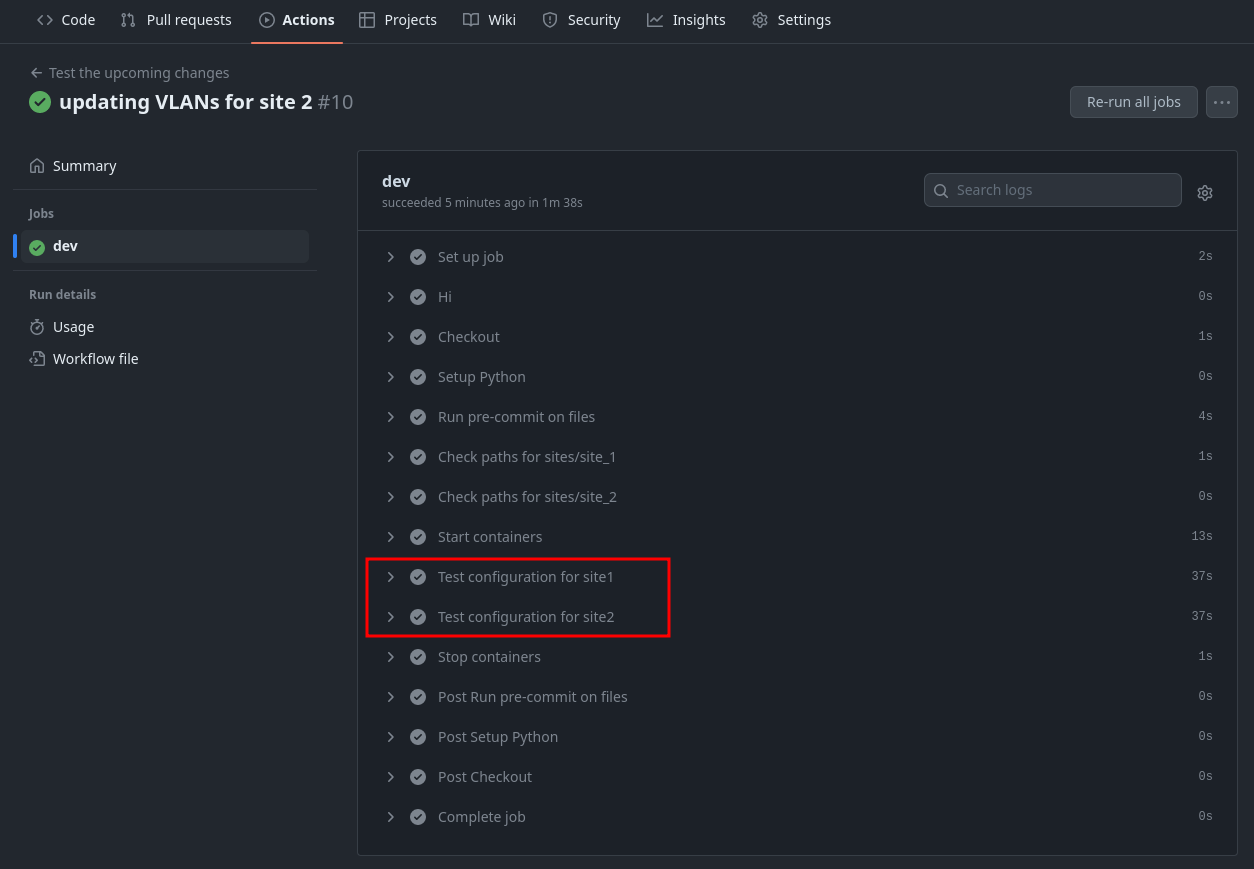
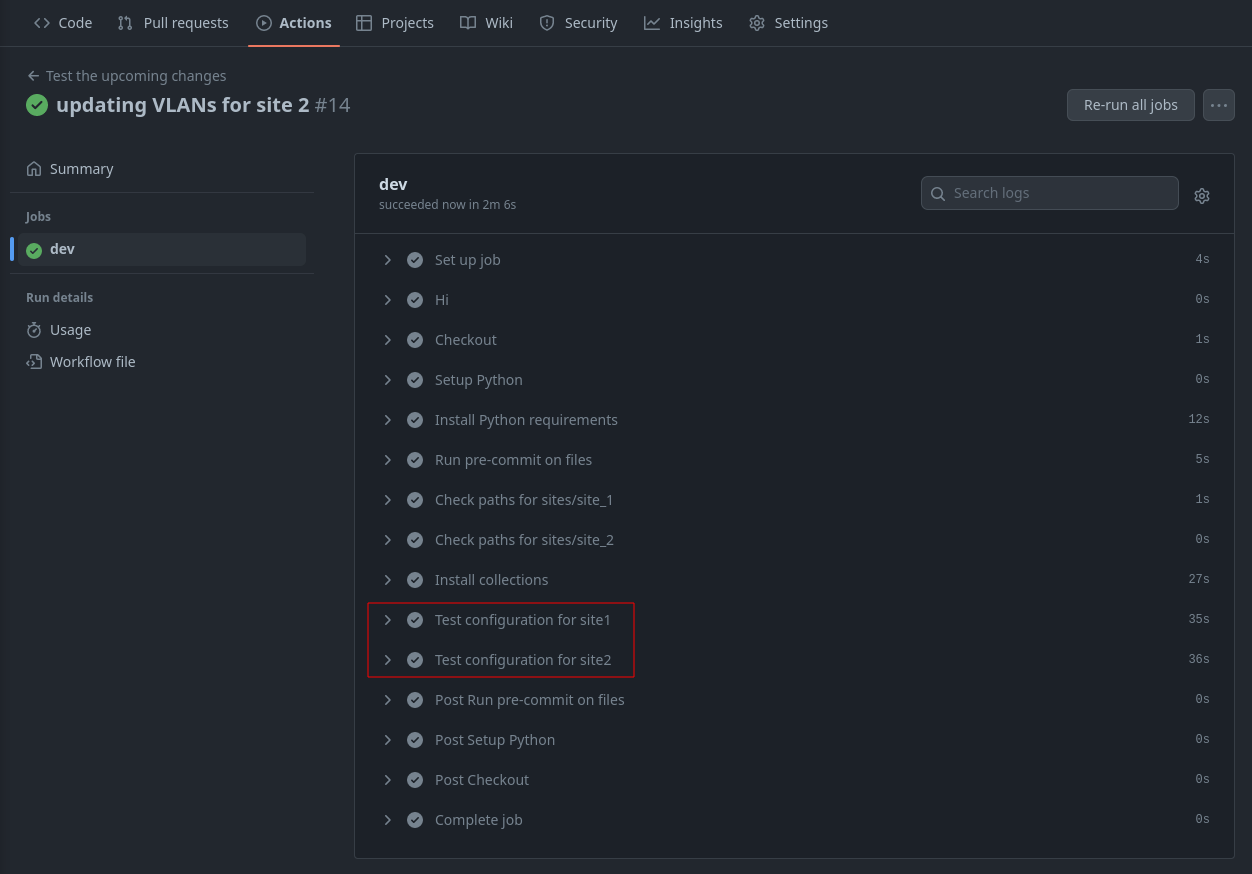
initial work to strip off compose

diff --git a/workshops/cicd-basics.md b/workshops/cicd-basics.md
@@ -253,9 +253,9 @@ repos:
         files: sites/site_1/group_vars/|sites/site_2/group_vars/
 ```
 
-Finally, the setup Python action above the pre-commit step installs Python dependencies in this workflow.
+Finally, the setup Python and install requirements action above the pre-commit step installs Python dependencies in this workflow.
 
-```yaml hl_lines="9-13"
+```yaml hl_lines="9-16"
 ...
     steps:
       - name: Hi
@@ -266,6 +266,9 @@ Finally, the setup Python action above the pre-commit step installs Python depen
 
       - name: Setup Python
         uses: actions/setup-python@v3
+
+      - name: Install Python requirements
+        run: pip3 install requirements.txt
 
       - name: Run pre-commit on files
         uses: pre-commit/action@v3.0.0
@@ -352,7 +355,7 @@ check yaml...............................................................Passed
 
 #### Filter changes to the Pipeline
 
-Currently, our workflow will build and deploy configurations for both sites. This is true even if we only have changes relevant to one site. We can use a path filter to check if changes within specific directories have been modified, signaling that a new build and deployment are required. Please take note of the `id` key. This will be referenced in our upcoming workflow steps leveraging Docker Compose.
+Currently, our workflow will build and deploy configurations for both sites. This is true even if we only have changes relevant to one site. We can use a path filter to check if changes within specific directories have been modified, signaling that a new build and deployment are required. Please take note of the `id` key. This will be referenced in our upcoming workflow steps.
 
 ```yaml
 ...
@@ -377,47 +380,15 @@ Currently, our workflow will build and deploy configurations for both sites. Thi
 ...
 ```
 
-#### Containers and Docker Compose
+#### Conditionals to control flow
 
-The final steps in our workflow leverage containers and Docker Compose. Containers are a great way to create environments that can be shared across team members or, in our case, the CI/CD workflow. We will make use of a pre-built container hosted on Docker Hub. The container is used as our runner and performs all AVD-specific workflows. If this container was not leveraged in the workflow, we would have to install all requirements during each pipeline run, possibly increasing the pipeline's completion time.
-
-```docker
-# Dockerfile
-FROM python:3.9.16-slim
-
-# Install dependencies:
-COPY requirements.txt .
-RUN pip3 install -r requirements.txt
-RUN ansible-galaxy collection install arista.avd arista.cvp community.general --force
-WORKDIR /app
-```
-
-The code block above is the Dockerfile used to build the runner in this workflow. We start with a base container of `python:3.9.16-slim`. We then copy any additional Python requirements. The last few steps install the requirements with pip and Ansible Galaxy.
-
-Docker compose defines the deployment of our AVD runner in the `docker-compose.yml` file at the root of our repository. This is optional but allows for a cleaner container definition instead of using a long-winded `docker run` command.
-
-The `version` key associates this Docker Compose file with a specific version of the Docker API. We then define a list of `services` (containers). Within the `atd-cicd` object, we define the container name and volume (files) to pass along to the container. The `image` key points to the public location of the container. Docker Compose will look at Docker Hub first by default for a particular container image. The last key of `environment` passes an environment variable in our workflow to the container. This is the secrets variable we set within our actions and in the GitHub Actions file. The code block below lists the final steps in our workflow with Docker Compose and our container. The commands in our steps should be familiar with the make commands we used in the AVD workshop.
-
-```yaml
-# docker-compose.yml
----
-version: '3.3'
-services:
-  atd-cicd:
-    container_name: atd-cicd
-    volumes:
-      - '.:/app'
-    image: juliopdx/atd-cicd:l2ls
-    environment:
-      - LABPASSPHRASE=$LABPASSPHRASE
-```
-
-The test configuration steps have the conditional key of `if`. This maps to each path filter check step we used earlier. For example, the first path check has an `id` of `filter-site1`. We can reference the `id` in our workflow as `steps.filter-site1.outputs.workflows`. If this is set to `true`, a change was registered in our check and the test build step for site 1 will run.
+The Ansible collection install and test configuration steps have the conditional key of `if`. This maps to each path filter check step we used earlier. For example, the first path check has an `id` of `filter-site1`. We can reference the `id` in our workflow as `steps.filter-site1.outputs.workflows`. If this is set to `true`, a change will register in our check, and the test build step for site 1 will run. One difference is the Ansible collection install uses the `||` (or) operator. The "or" operator allows us to control when Ansible collections are installed. The collections will be installed if a change is registered in either `filter-site1` or `filter-site2`.
 
 ```yaml
 ...
-      - name: Start containers
-        run: docker-compose -f "docker-compose.yml" up -d
+      - name: Install collections
+        run: ansible-galaxy collection install -r requirements.yml
+        if: steps.filter-site1.outputs.workflows == 'true' || steps.filter-site2.outputs.workflows == 'true'
 
       - name: Test configuration for site1
         run: docker-compose run atd-cicd make build-site-1
@@ -427,9 +398,6 @@ The test configuration steps have the conditional key of `if`. This maps to each
         run: docker-compose run atd-cicd make build-site-2
         if: steps.filter-site2.outputs.workflows == 'true'
 
-      - name: Stop containers
-        if: always()
-        run: docker-compose -f "docker-compose.yml" down
 ```
 
 At this point, make sure both workflow files (`dev.yml` and `prod.yml`) within the `.github/workflows` directory are ***not*** commented out. An example of the `dev.yml` file is below.
@@ -459,6 +427,9 @@ At this point, make sure both workflow files (`dev.yml` and `prod.yml`) within t
           - name: Setup Python
             uses: actions/setup-python@v3
 
+          - name: Install Python requirements
+            run: pip3 install -r requirements.txt
+
           - name: Run pre-commit on files
             uses: pre-commit/action@v3.0.0
 
@@ -478,20 +449,17 @@ At this point, make sure both workflow files (`dev.yml` and `prod.yml`) within t
                 workflows:
                   - 'sites/site_2/**'
 
-          - name: Start containers
-            run: docker-compose -f "docker-compose.yml" up -d
+          - name: Install collections
+            run: ansible-galaxy collection install -r requirements.yml
+            if: steps.filter-site1.outputs.workflows == 'true' || steps.filter-site2.outputs.workflows == 'true'
 
           - name: Test configuration for site1
-            run: docker-compose run atd-cicd make build-site-1
+            run: make build-site-1
             if: steps.filter-site1.outputs.workflows == 'true'
 
           - name: Test configuration for site2
-            run: docker-compose run atd-cicd make build-site-2
+            run: make build-site-2
             if: steps.filter-site2.outputs.workflows == 'true'
-
-          - name: Stop containers
-            if: always()
-            run: docker-compose -f "docker-compose.yml" down
     ```
 
 ## Day-2 ops - New service (VLAN)
